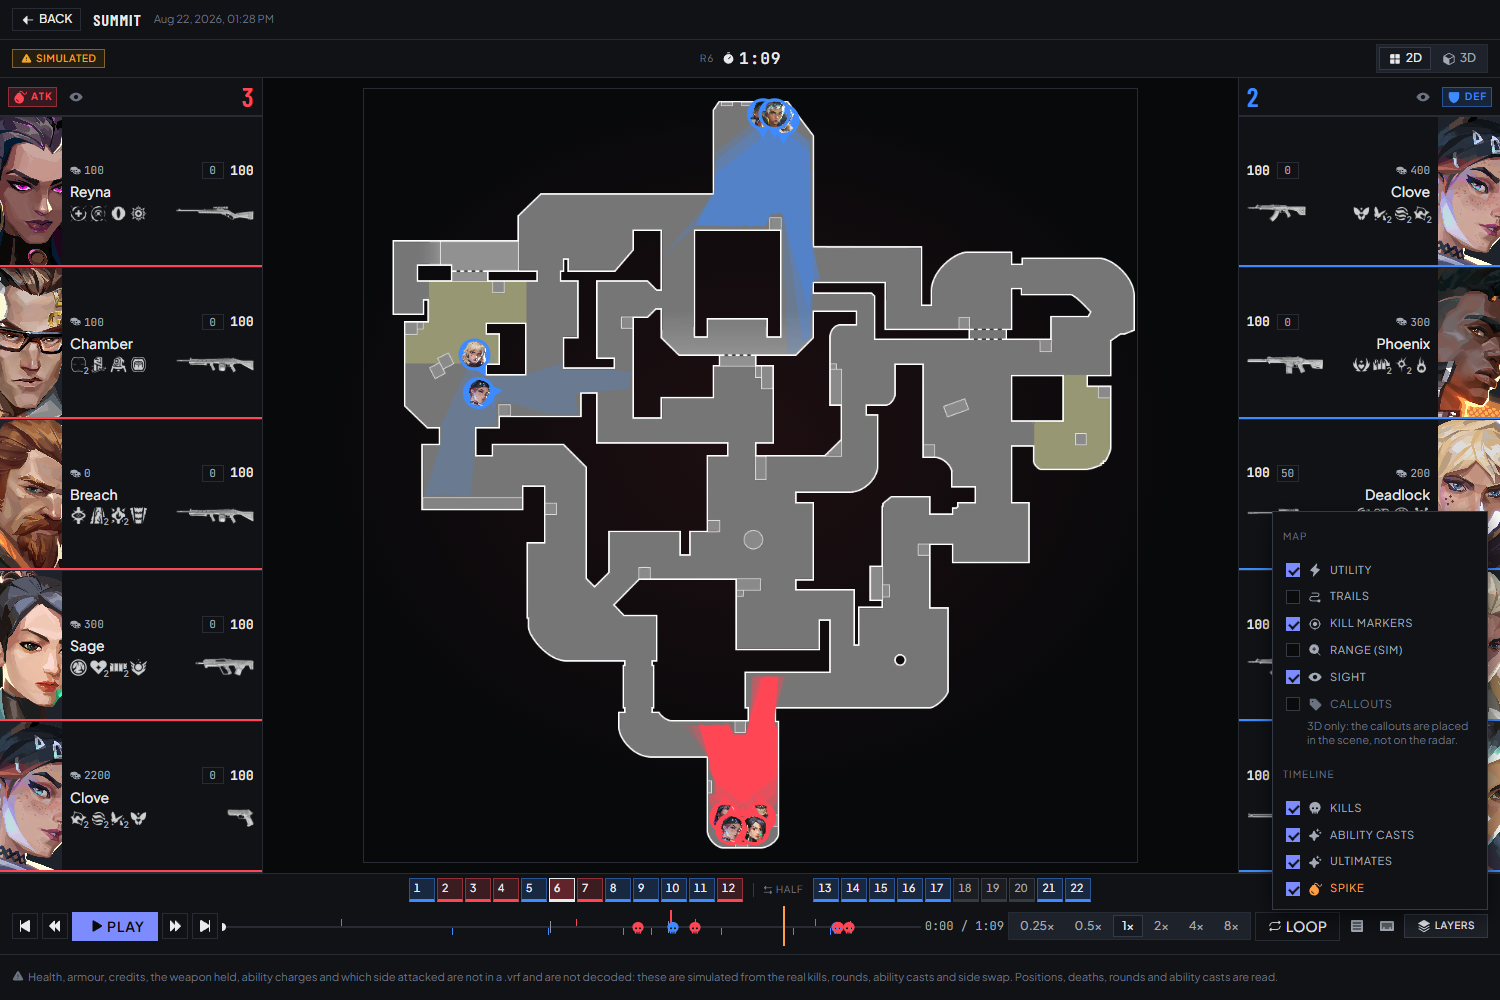
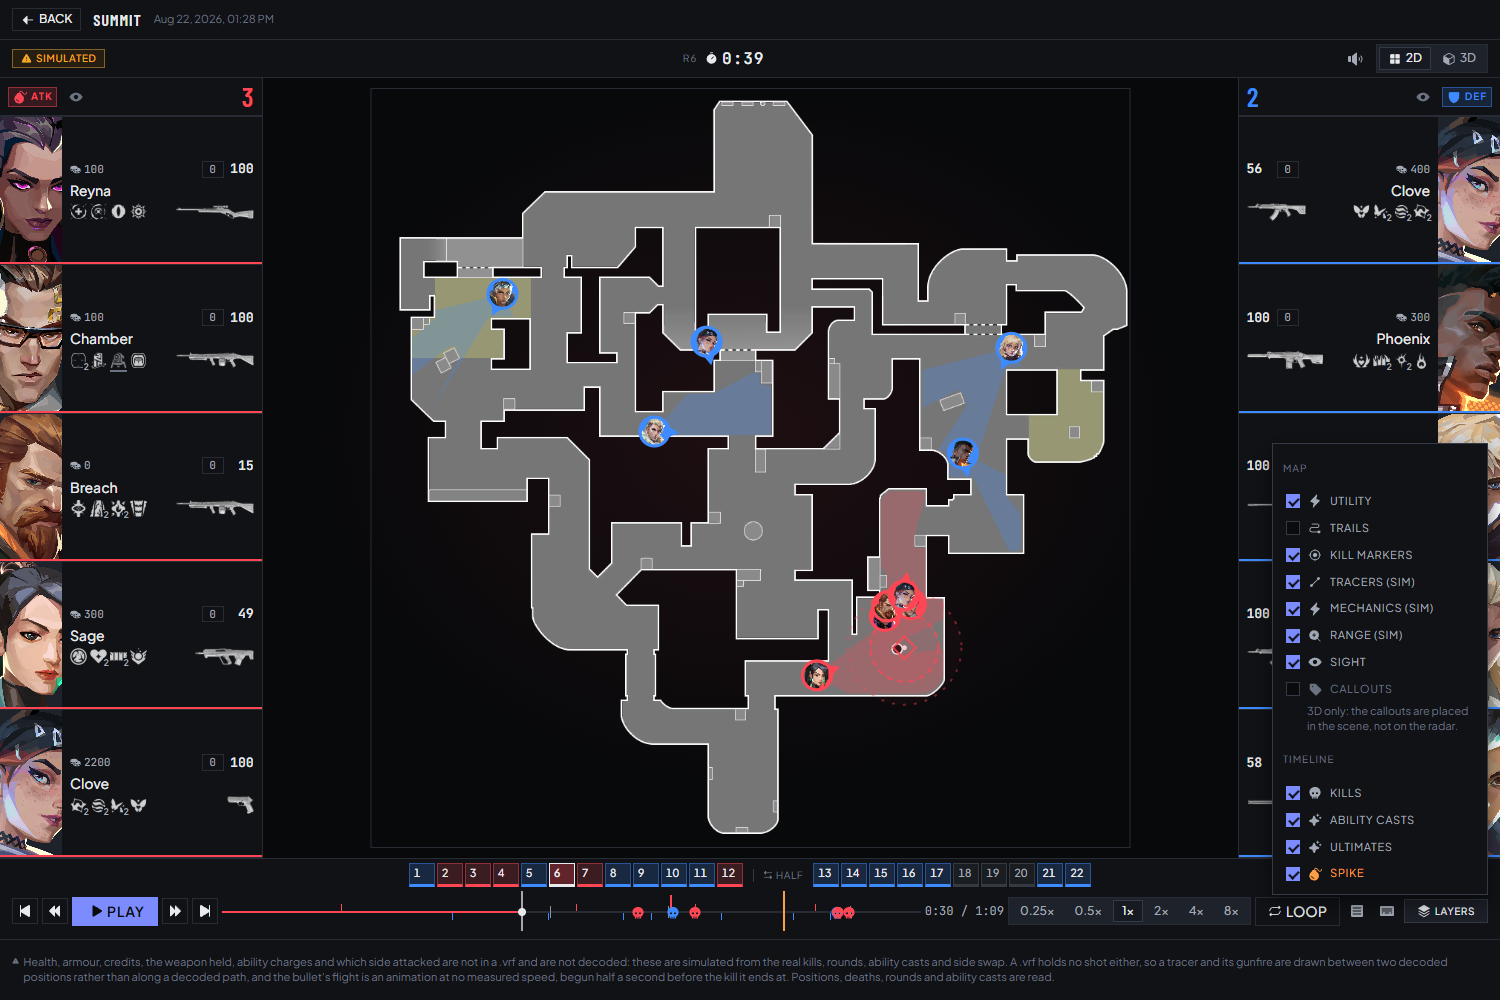
docs(readme): regenerate the screenshots and write up the ability figures
- rewrite docs/images/ui/ from npm run docshots, at the frame the transport
  now opens on: twelve layer switches, the mechanics rings and the flat wash
- add an Ability figures reference section: the (codename, slot) key, the slot
  that is not a keybind, the icon join that was wrong, the flights and their
  refusals, and the one wall drawn from its own geometry
- add a looked-up category beside read and generated, since an ability's
  radius and lifetime are neither
- correct the sight paragraph: the wash is flat and unioned per side, and a
  seeing drone gets a cone
- list docs/ability-figures-resolved.md and the ability research it came from

diff --git a/README.md b/README.md
@@ -81,16 +81,22 @@ strip, and a transport scoped to one round. Nothing on this page scrolls.
 
 ### The radar, on its own
 
-Markers are agent portraits and the heading is decoded, not assumed. The amber
-marker is the spike, which has a real coordinate: a plant spawns a `TimedBomb`
-actor, and over 21 captures its 274 spawns pair one-to-one with the 274
-`spikePlanted` events and all 274 land inside the map's playable silhouette.
+Markers are agent portraits and the heading is decoded, not assumed. The dashed
+ring and the diamond inside it are a placed ability — where it came to rest is
+decoded, the radius is a published figure looked up in
+`vrfview/abilityfacts.py`, and the dash is this canvas's token for *generated*,
+because every other stroke on it is around something decoded. Where a round has
+a plant, the spike's own mark is drawn in amber at a real coordinate: a plant
+spawns a `TimedBomb` actor, and over 21 captures its 274 spawns pair one-to-one
+with the 274 `spikePlanted` events and all 274 land inside the map's playable
+silhouette.
 
 ![The radar](docs/images/ui/03-radar.png)
 
 ### Layers
 
-Nine switches. A layer that cannot do anything in the current view is **shown
+Twelve switches — eight for the stage and four for the timeline rail. A layer
+that cannot do anything in the current view is **shown
 disabled with the reason** rather than dropped from the menu — a missing row
 reads as a feature that does not exist.
 
@@ -105,12 +111,24 @@ reads as a feature that does not exist.
 The sight cone is raycast against the **radar image's own alpha channel** — 57–72%
 of every published `minimap.png` is transparent void — so it is an approximation
 of a silhouette rather than a line of sight. There is no collision, navmesh
-or height data anywhere in this project. One cone is drawn per living player in
-both views, and the opacity counts rather than being fixed: each is `1/N` of its
-side's ink, so k cones over a point read as exactly `k/N` and a full side
-covering one lane paints it solid. The trail splits wherever the position
-lookup would refuse to interpolate, so it never draws a line through a wall the
-model would not cross.
+or height data anywhere in this project. A cone is drawn for every living player
+in both views, and for the ability pawns that *see* — Sova's Owl Drone and
+Tejo's Stealth Drone, looked up in `abilityfacts` rather than guessed from the
+kind, since a Boom Bot is a pawn too and looks at nothing. Their yaw is decoded
+and really turns, sweeping across a flight.
+
+**The wash is flat and overlap says nothing.** A side's cones are unioned on a
+scratch canvas and the union is stamped once at a quarter opacity, so one cone
+and six read identically and the layer states simply *where that side can see*.
+It used to weight each cone at `1/N` of its side's ink, which answered a second
+question — which parts of the map *nobody* can see — and made every cone a
+judgement about a gradient; a drone joining the denominator would have diluted
+every player's cone. A smoke stops a ray as a circle, and each one now ages from
+its **own arrival** rather than from the cast, which is a median 831 ms and a
+p95 of 2.3 s of a smoke that used to block sight before it existed.
+
+The trail splits wherever the position lookup would refuse to interpolate, so it
+never draws a line through a wall the model would not cross.
 
 ### The round timeline
 
@@ -126,23 +144,36 @@ by kind and by side, each row seeking the playhead to it.
 | **Container** | `.vrf` header, chunk table and all seven event groups from plain chunks — no decompression, no DLL (`vrf_reader.py`, `vrf_to_json.py`) |
 | **Positions** | Player movement at 10 Hz with heading and pitch, decoded out of the obfuscated replication stream by a C# helper in about four seconds (`csharp/VrfPositions`, `vrfview/tracks.py`) |
 | **Inference** | Teams by bipartite two-colouring of the kill graph, round outcomes, sides, halftime swap, reconnect merges — each one appended to `Replay.notes` as a claim you can read (`vrfview/infer.py`) |
-| **Ability casts** | No `.vrf` holds an ability event; casts are reconstructed from the actors they spawn, with the agent, the keybind and where the ability came to rest (`vrfview/abilities.py`) |
+| **Ability casts** | No `.vrf` holds an ability event; casts are reconstructed from the actors they spawn, with the agent, the published ability name, the keybind and where the ability came to rest — all 6,304 casts in the reference library carry a name and Riot's own icon (`vrfview/abilities.py`, `vrfview/abilityfacts.py`) |
+| **Ability mechanics** | A thrown ability crossing to where it landed over its own decoded interval, then arming, standing and expiring on a looked-up lifetime; Sage's wall drawn from its four segments' own decoded coordinates (`web/src/views/castlayer.ts`) |
 | **The spike** | A plant's coordinate, recovered from the `TimedBomb` actor it spawns. The planter is still not attributable |
 | **Match list** | A whole library described headlessly and cached by `(path, mtime, size)`, with the ten agents who played and a measured team split behind them, and a background worker decoding ahead of you (`vrfhome/`) |
 | **Server** | Ten routes and no more, deciding nothing: the model reads, infers, looks up and decodes, and a handler that started deciding would be a fourth place a claim could come from (`vrfserve/`) |
 | **2D and 3D** | The playback model is ported to TypeScript and runs in the browser, because `state_at` is 0.127 ms and a round trip is not (`web/src/model/`) |
-| **Sight** | A cone per living player in 2D and 3D alike, raycast against the radar's silhouette and the wall lines drawn on it, and stopped by smokes; on by default, needing no selection, with overlap carried by the opacity (`vrfview/sight.py`, `web/src/views/sightlayer.ts`) |
+| **Sight** | A cone per living player and per seeing drone, in 2D and 3D alike, raycast against the radar's silhouette and the wall lines drawn on it, and stopped by smokes; on by default, needing no selection, unioned per side and stamped once so overlap claims nothing (`vrfview/sight.py`, `web/src/views/sightlayer.ts`) |
 | **Catalogue** | Map, agent, role and weapon art and Riot's own callouts, cached locally from `valorant-api.com` (`scripts/fetch_assets.py`, `vrfview/art.py`) |
 
 ### What is read and what is generated
 
-A roster card is half read and half generated, and the page says which.
+A roster card is half read and half generated, and the page says which — and on
+the map there is a third category between them, looked up.
 
 **Read or decoded:** the agent and its portrait, the four ability icons, whether
 a player is alive, the score, every position, every kill, every round boundary,
 every ability cast, and the spike plant. A match-list card's ten agents are read
 too, from the loadout's own UUIDs — no decoder, no Oodle and no supported build
 needed for that one.
+
+**Looked up:** an ability's published name, keybind, radius and lifetime, and
+whether it sees, persists or dies with its caster. Nobody who ships data here
+publishes an ability's extent — not the replay, not `val-content-v1`, not the
+manifest — so `vrfview/abilityfacts.py` is a hand-written table of community
+figures, one source string per figure, 106 entries over 28 agents, in the shape
+`names.AGENT_CODENAMES` already sets for external knowledge. An ability the
+table cannot source keeps its icon and draws no ring: there is no default
+radius, and half a smoke is drawn as no smoke. Everything the table drives is
+drawn **dashed**, which is this interface's token for a figure it did not
+decode.
 
 **Generated:** health, armour, credits, the weapon held, and ATK/DEF itself. None
 of those is replicated to a spectator recording. They come from
@@ -506,6 +537,75 @@ narrows the set. The art is Riot Games' intellectual property and the cache is
 gitignored; nothing here redistributes it. `docs/valorant-assets.md` documents the
 folder, the manifest schema and the measured world-to-minimap transform.
 
+### Ability figures
+
+There is no ability event in a `.vrf` at all. A cast is reconstructed from the
+actors it spawns — `/Game/Characters/<Codename>/S0/Ability_<SLOT>/<Kind>_...`
+gives the agent, the internal slot and the kind — and everything a reader wants
+beside that is looked up.
+
+`libraries/vrfview/abilityfacts.py` is that lookup: 106 entries over 28 agents,
+keyed on **`(codename, slot)`** and carrying a published name, a keybind, and
+where a source exists a radius, a lifetime, a charge count and whether the thing
+sees, persists or dies with its caster. Every figure carries its own source
+string, led by `wiki.playvalorant.com`, which tags each row of its stats tables
+with how the figure was established. A missing row is evidence rather than an
+invitation: an ability nobody publishes a radius for stays ringless.
+
+The key was measured rather than chosen. An ability's *internal* name splits —
+Clove's smoke arrives as `Post Death` and as `New Smoke` for one ability — where
+across the 23 cached decodes every `(codename, slot)` maps to exactly one real
+ability, and no slot in the library hosts two. **The slot is not the keybind**
+either: the archetype path's letters are Riot's internal ones, so the decode
+calls Sova's Recon Bolt `Q` where the game binds it to E, and six of the agents
+are shuffled. So `keybind` is a looked-up field beside every entry, never
+something joined by letter.
+
+That distinction fixed a bug that had shipped. `art.SLOT_TO_MANIFEST` mapped
+internal C onto Riot's `Grenade` on the reasoning that `Grenade` is C on every
+agent — it is C for eight of the sixteen agents the table then named and
+something else for the other eight, so the map drew Stim Beacon's icon on
+Brimstone's Sky Smoke and Owl Drone's on Sova's Shock Bolt, every round,
+silently, because one white glyph at fourteen pixels looks much like another.
+**A name is not a letter**: `art.AgentArt.ability_named` joins the table's
+published name against the manifest's, 106 of 106 matching exactly one ability
+with none ambiguous, and `tests/test_abilityfacts.py` asserts the join is a
+bijection per agent — four slots, four distinct names, four distinct pictures.
+All 6,304 casts the reference library states now carry a name and Riot's own
+picture.
+
+What the layer draws is a lifecycle, and each phase's standing is different.
+A `Projectile_` channel opens where the caster stands and a placed channel opens
+where the thing came to rest, so a **flight** has two decoded ends and a decoded
+interval and only the straight line between them is invented — 2,509 flights
+across 1,704 casts (27.0%), a median 831 ms and 1,485 uu, with four measured
+refusals: unequal counts of projectiles and landings are never paired, a zero
+interval is no flight, a backwards one is a remote detonation, and anything
+above `FLIGHT_MAX_MS` (3,000 ms) is refused on a density collapse of 250× rather
+than on an empty band. There is still **no arc**: only `Pawn_` actors move.
+
+What happens at the end is decided by two published facts and not one, because
+conflating them got both ends wrong: `duration_ms` is how long an effect lasts
+and `persists` is whether the thing itself is still there. A Trademark publishes
+a four-second slow and then waits on the floor all round; a Turret publishes no
+duration and stands until it is shot. So a persisting thing stands, a published
+duration runs out, and an ability the table names with neither — a flash, a
+dart — is a *moment*, shown briefly and let go. An ability the table does not
+name changes nothing, which is the rule the whole table keeps.
+
+Sage's Barrier Orb is the one wall drawn from its own geometry: it opens one
+segment channel per segment at the same millisecond, each with its own spawn
+transform, and over 126 barriers 125 spawn four segments, every one exactly
+collinear at 0.0 uu deviation and a uniform 260 uu spacing, so the drawn extent
+is arithmetic over decoded coordinates and no figure from anywhere. The other
+three walls are refused: Phoenix's Blaze and Harbor's High Tide have *no length*
+— each is a path a steerable missile left on the ground — and Vyse's Shear is
+placed on vertical terrain, so its axis belongs to the surface rather than to
+the way she faced.
+
+Viper is refused outright: she has zero casts in the library, so nothing says
+which internal letter each of her abilities occupies.
+
 ### Spawn barriers
 
 `libraries/vrfview/barriers.json` holds the round-start spawn barriers for nine
@@ -659,6 +759,8 @@ to be made and two places to drift.
 | [`docs/vrf-decoding-findings.md`](docs/vrf-decoding-findings.md) | Measured truth about the container. Supersedes `vrf-decoding-research.md`, which is a literature review and partly wrong for this title |
 | [`docs/039f3991_summary.md`](docs/039f3991_summary.md) | The reference capture, key by key. §6 lists all seven event groups; §8 is what is *not* in the file |
 | [`docs/valorant-replay-parser-features.md`](docs/valorant-replay-parser-features.md) | What the vendored parser can and cannot do, cross-referenced against this repo |
+| [`docs/ability-figures-resolved.md`](docs/ability-figures-resolved.md) | Where an ability figure's provenance lives when the research corrected a *premise* rather than a number — Aftershock's two pulses, and the two walls that turned out to have no length |
+| [`docs/Valorant Agent Ability Details.md`](docs/Valorant%20Agent%20Ability%20Details.md) | The first round of ability research the table is authored from, cited per agent |
 | [`docs/map-barriers.md`](docs/map-barriers.md) | Where the spawn barriers are, and how they were measured off somebody else's screenshots — the palette, the alignment search, and the 76-of-76 ground truth |
 | [`docs/valorant-assets.md`](docs/valorant-assets.md) | The art cache: folder layout, manifest schema, and the measured world-to-minimap transform |
 | [`docs/webapp-03-map-viewers.md`](docs/webapp-03-map-viewers.md) | How the 2D radar and the 3D scene were planned |
